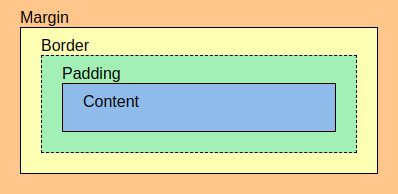
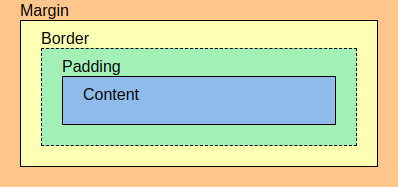
Finalize layout

diff --git a/Mohammad Fakih - A01298047/index.html b/Mohammad Fakih - A01298047/index.html
@@ -25,24 +25,28 @@ Please submit a .zip (no .7z or .rar files) of your folder, containing your .htm
             HTML & CSS in Review
         </h1>
 
-        <!-- Nav links to subheadings -->
-        <nav>
-            <ul class="navlink">
-
-                <li>
-                    <a href="#HTML" target="_self">
-                        HTML
-                    </a>
-                </li>
-
-                <li>
-                    <a href="#CSS" target="_self">
-                        CSS
-                    </a>
-                </li>
-
-            </ul>
-        </nav>
+        <div class="navbar-container">
+            <p class="index-header">
+                Table of Contents:
+            <p>
+            <nav>
+                <ul class="navlink">
+    
+                    <li>
+                        <a href="#HTML" target="_self">
+                            HTML
+                        </a>
+                    </li>
+    
+                    <li>
+                        <a href="#CSS" target="_self">
+                            CSS
+                        </a>
+                    </li>
+    
+                </ul>
+            </nav>
+        </div>
 
     </header>
 
@@ -617,7 +621,7 @@ selector3 {
             CSS Box Model
         </h4>
 
-        <div class="section-content">
+        <div class="image-container">
             <img 
                 src="Images/box-model.png" 
                 alt="A representation of the layers that make the CSS box model" 
@@ -660,26 +664,31 @@ selector3 {
     </main>
 
     <footer>
-
-        <nav>
-            <ul class="navlink">
-
-                <li>
-                    <a href="#HTML" target="_self">
-                        HTML
-                    </a>
-                </li>
-
-                <li>
-                    <a href="#CSS" target="_self">
-                        CSS
-                    </a>
-                </li>
-
-            </ul>
-        </nav>
-
-        <code>Mohammad Razi Fakih - A01298047</code>
+        <div class="navbar-container">
+            <p class="index-header">
+                Table of Contents:
+            <p>
+            
+            <nav>
+                <ul class="navlink">
+                    <li>
+                        <a href="#HTML" target="_self">
+                            HTML
+                        </a>
+                    </li>
+    
+                    <li>
+                        <a href="#CSS" target="_self">
+                            CSS
+                        </a>
+                    </li>
+    
+                </ul>
+            </nav>
+    
+            <code id="signature-line">Mohammad Razi Fakih - A01298047</code>
+        </div>
+        
 
     </footer>
 </body>

diff --git a/Mohammad Fakih - A01298047/Styles/styles.css b/Mohammad Fakih - A01298047/Styles/styles.css
@@ -14,6 +14,11 @@ header {
     align-content: center;
 }
 
+main {
+    display: flex;
+    flex-direction: column;
+}
+
 h1 {
     color:rgb(182, 193, 203);
     font-family: 'Silkscreen', cursive;
@@ -22,18 +27,46 @@ h1 {
     margin: 0px;
 }
 
-.navlink {
-    list-style: none;
-    padding-left: 0rem;
+.navbar-container {
+    margin-top: 3.8rem;
+    border-radius: 1.2rem;
+    padding: 0.4rem;
+    border: 0.085rem solid rgb(2, 202, 42);
 }
 
-.navlink li {   
-    width: 50%;
+.index-header {
+    font-size: large;
+    padding-left: 0.4rem;
+    color:rgb(2, 202, 42);
+    font-variant: all-small-caps;
+    text-decoration: underline;
+    margin: 0.4rem 0;
+}
+
+.navlink {
+    list-style: none;
+    padding-left: 1.6rem;
+}
+
+.navlink li {
+    margin-bottom: 0.8rem;
+}
+
+.navlink li::before {
+    content: "\2022";
+    color:rgb(2, 202, 42);
+    font-weight: bold;
+    display: inline-block;
+    width: 1em;
 }
 
 a {
     text-decoration: none;
-    margin: 0.5rem;
+    color: rgb(2, 202, 42);
+}
+
+a:hover {
+    text-decoration: underline;
 }
 
 .neumorphic-box {
@@ -50,6 +83,19 @@ a {
     margin: auto;
 }
 
+.image-container {
+    align-self: center;
+    margin-bottom: 2.6rem;
+    border-radius: 1.2rem;
+    padding: 0.4rem;
+    border: 0.085rem solid rgb(2, 202, 42);
+}
+
+img {
+    border-radius: 0.8rem;
+    display: block;
+}
+
 p {
     margin: 1.3rem auto;
 }
@@ -57,6 +103,11 @@ p {
 code {
     color: rgb(2, 202, 42);
     letter-spacing: 0.04rem;
+}
+
+#signature-line {
+    margin: 0.4rem;
+    font-size: small;
 }
 
 h2 {
